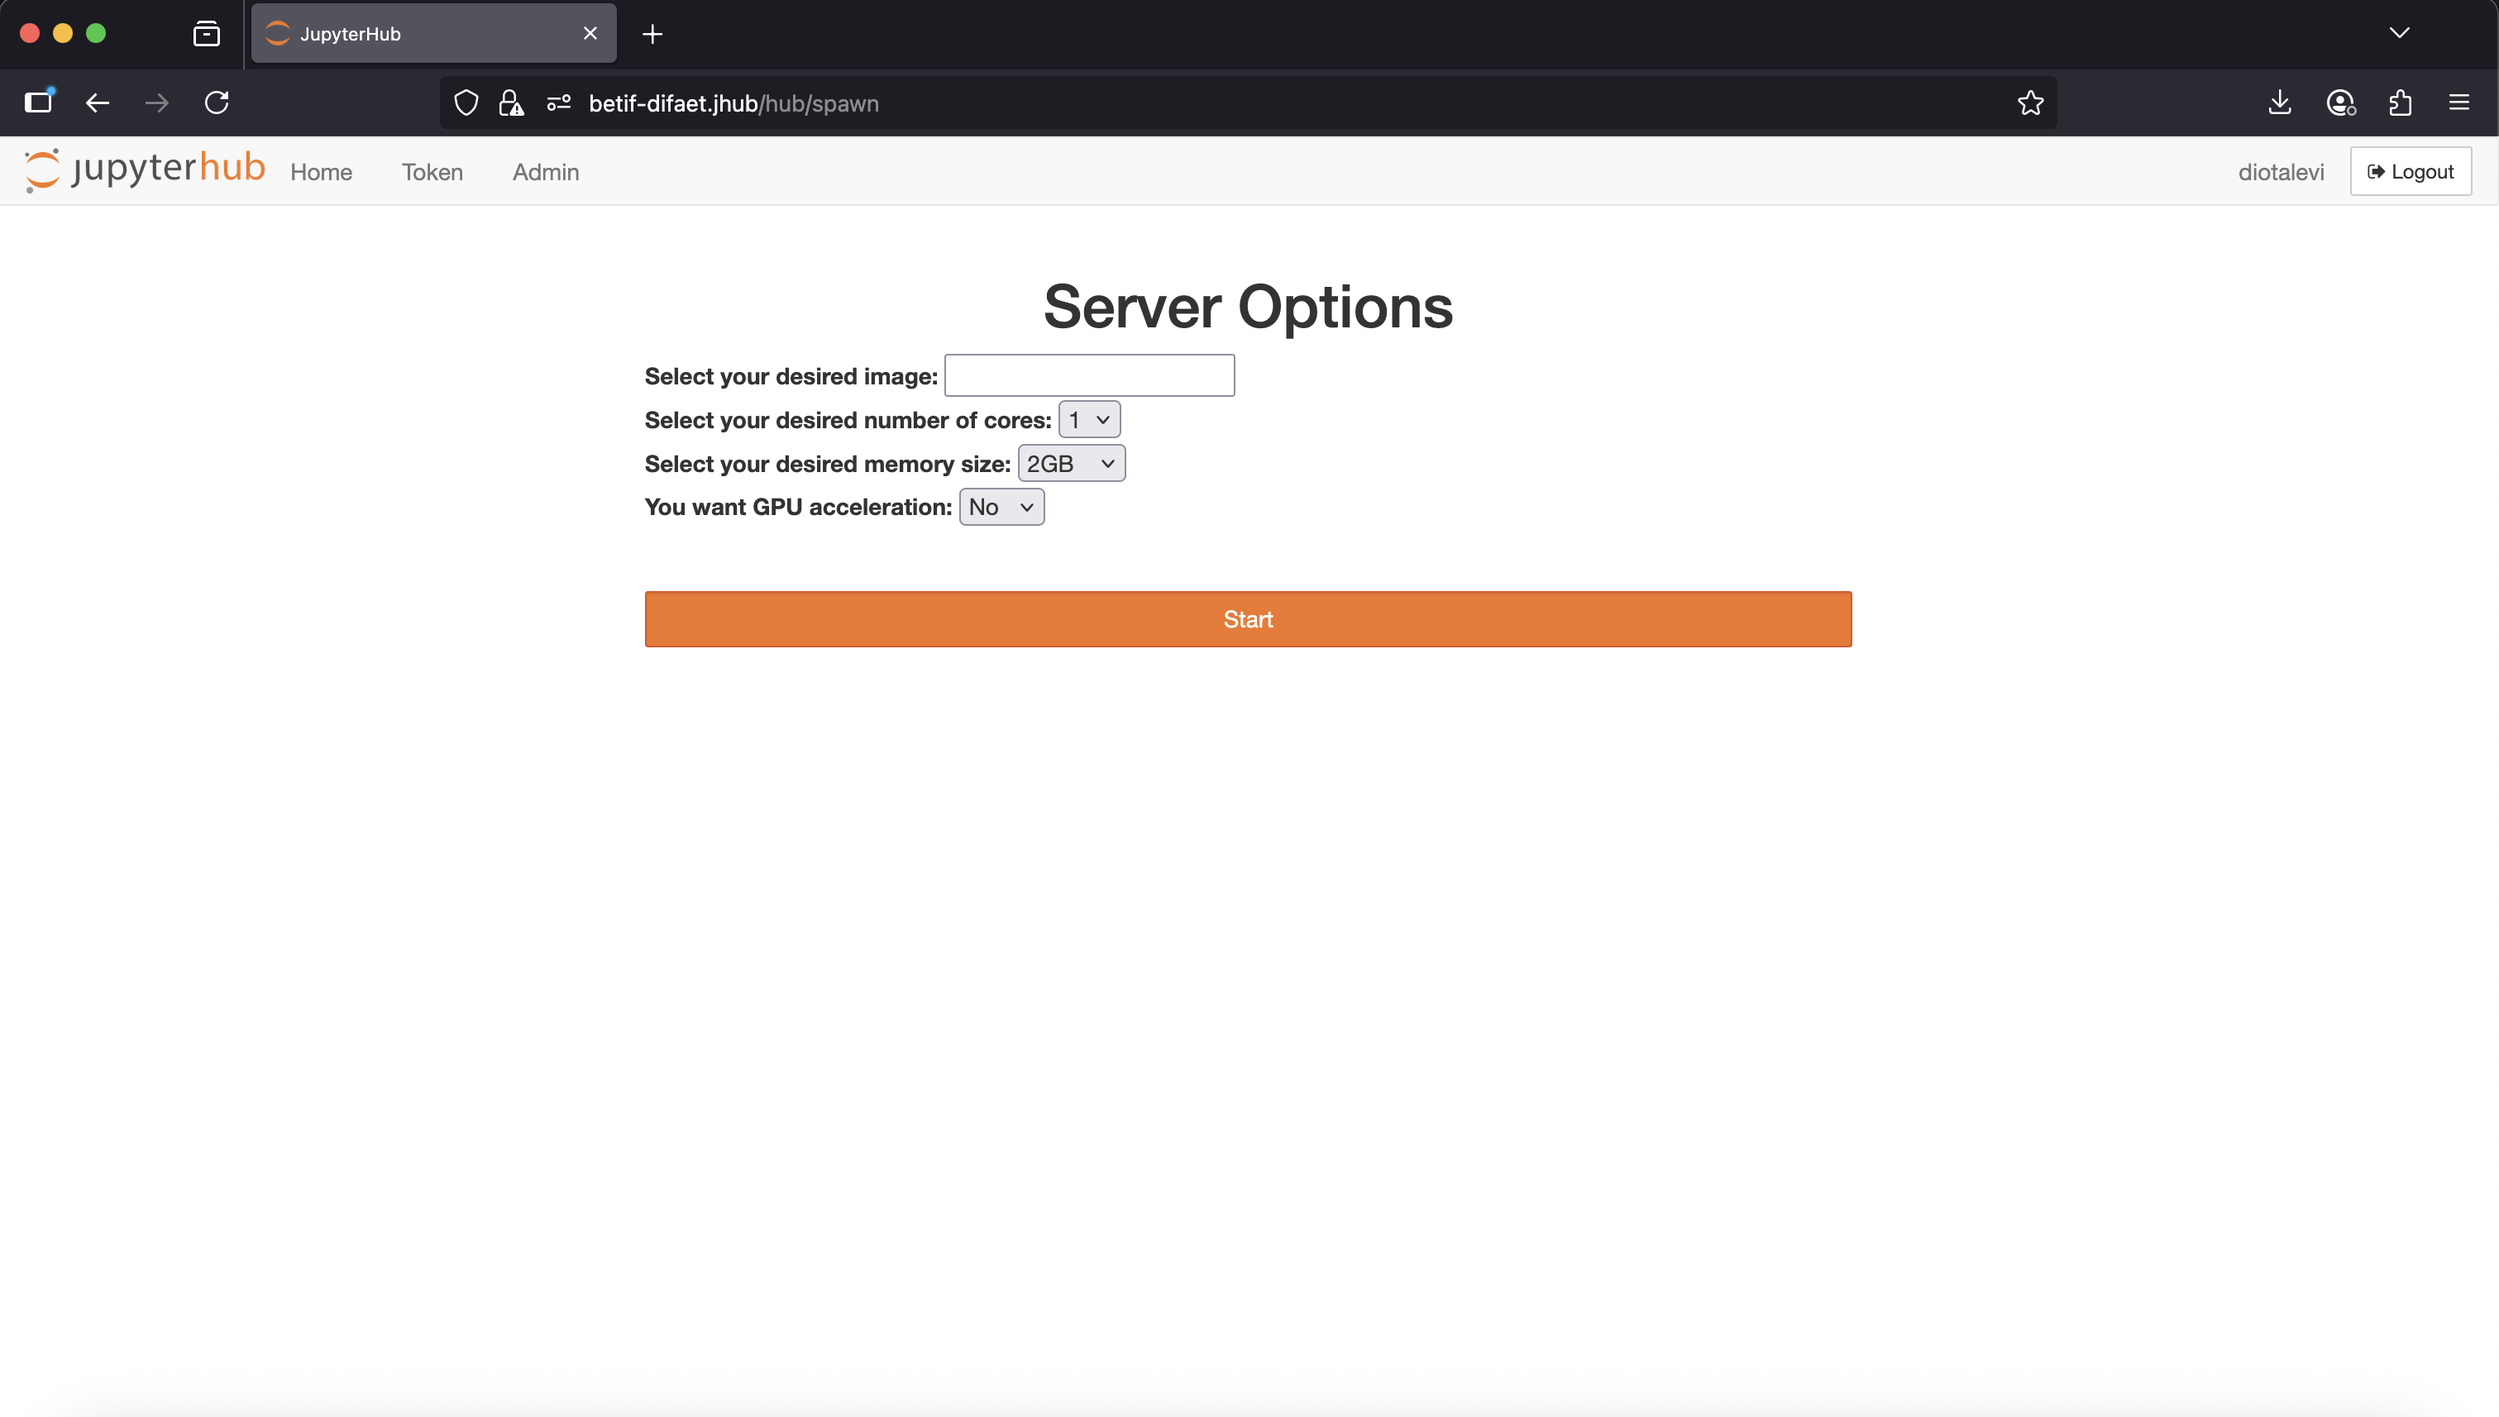
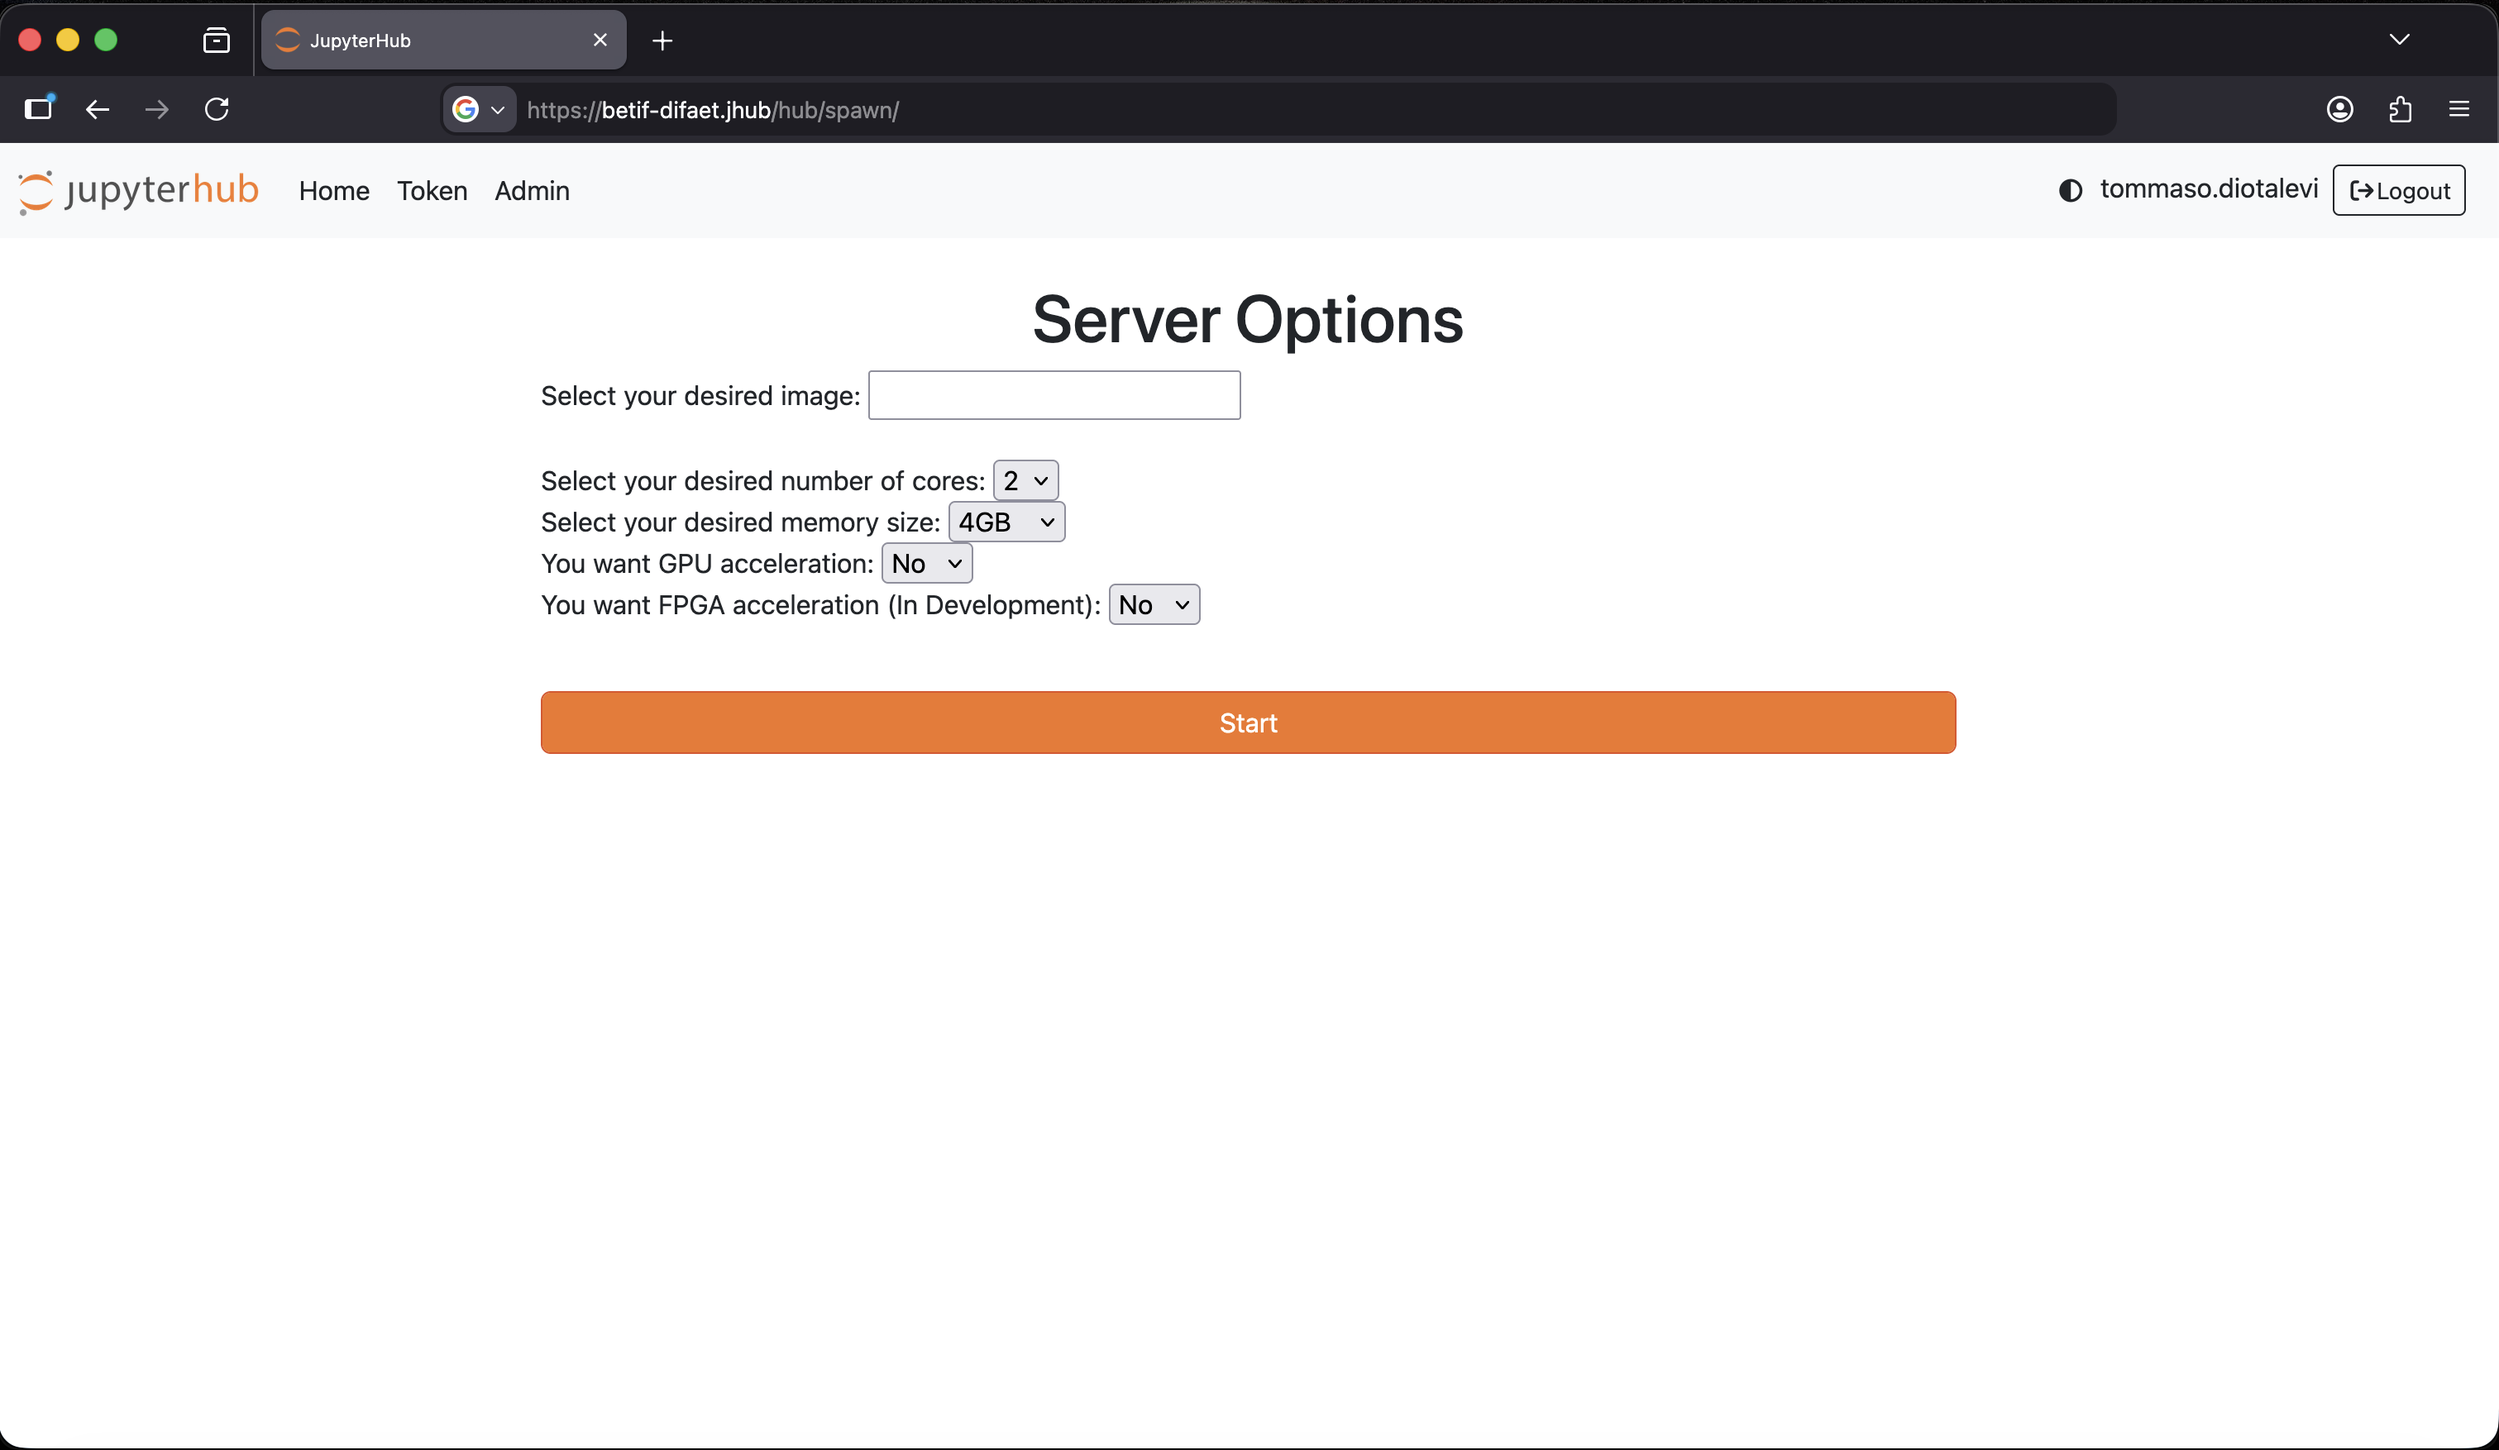
Update docs with new jlab interface

diff --git a/docs/source/user_guide.rst b/docs/source/user_guide.rst
@@ -58,16 +58,19 @@ The default base images visible on the ``Server Options`` page are:
 +--------------------------------------+---------------------------------------------------------------+-------------------------------------------------------+
 |              Image name              |                          Image path                           |                   Packages installed                  |
 +======================================+===============================================================+=======================================================+
-|    Almalinux9 CPU-only base image    |      `ghcr.io/betif-difaet/jlab:betif-alma9-cpu-v0.3.0`_      |                Python 3.11, VOMS client               |
+|    Almalinux9 CPU-only base image    |      `ghcr.io/betif-difaet/jlab:betif-alma9-cpu-v1.0.5`_      |                Python 3.11, VOMS client               |
 +--------------------------------------+---------------------------------------------------------------+-------------------------------------------------------+
-|      Almalinux9 ROOT base image      | `ghcr.io/betif-difaet/jlab:betif-alma9-cpu-with-root-v0.3.0`_ |          Python 3.11, VOMS client, ROOT 6.34          |
+|      Almalinux9 ROOT base image      | `ghcr.io/betif-difaet/jlab:betif-alma9-cpu-with-root-v1.0.5`_ |          Python 3.11, VOMS client, ROOT 6.34          |
 +--------------------------------------+---------------------------------------------------------------+-------------------------------------------------------+
-|  Almalinux9 CPU-with-GPU base image  |      `ghcr.io/betif-difaet/jlab:betif-alma9-gpu-v0.3.0`_      | Python 3.11, VOMS client, NVIDIA drivers, CUDA 12.4   |
+|  Almalinux9 CPU-with-GPU base image  |      `ghcr.io/betif-difaet/jlab:betif-alma9-gpu-v1.0.5`_      | Python 3.11, VOMS client, NVIDIA drivers, CUDA 12.4   |
++--------------------------------------+---------------------------------------------------------------+-------------------------------------------------------+
+|      Almalinux9 FPGA base image      |     `ghcr.io/betif-difaet/jlab:betif-alma9-fpga-v1.0.3`_      |         Python 3.11, VOMS client, FPGA drivers        |
 +--------------------------------------+---------------------------------------------------------------+-------------------------------------------------------+
 
-.. _ghcr.io/betif-difaet/jlab:betif-alma9-cpu-v0.2.1: https://github.com/betif-difaet/custom_images/pkgs/container/jlab/506490177?tag=betif-alma9-cpu-v0.2.1
-.. _ghcr.io/betif-difaet/jlab:betif-alma9-gpu-v0.2.1: https://github.com/betif-difaet/custom_images/pkgs/container/jlab/506497746?tag=betif-alma9-gpu-v0.2.1
-.. _ghcr.io/betif-difaet/jlab:betif-alma9-cpu-with-root-v0.2.1: https://github.com/betif-difaet/custom_images/pkgs/container/jlab/506490178?tag=betif-alma9-cpu-with-root-v0.2.1
+.. _ghcr.io/betif-difaet/jlab:betif-alma9-cpu-v1.0.5: https://github.com/BETIF-DIFAET/custom_images/pkgs/container/jlab/1133089955?tag=betif-alma9-cpu-v1.0.5
+.. _ghcr.io/betif-difaet/jlab:betif-alma9-gpu-v1.0.5: https://github.com/BETIF-DIFAET/custom_images/pkgs/container/jlab/1133174633?tag=betif-alma9-gpu-v1.0.5
+.. _ghcr.io/betif-difaet/jlab:betif-alma9-cpu-with-root-v1.0.5: https://github.com/BETIF-DIFAET/custom_images/pkgs/container/jlab/1133132286?tag=betif-alma9-cpu-with-root-v1.0.5
+.. _ghcr.io/betif-difaet/jlab:betif-alma9-fpga-v1.0.3: https://github.com/BETIF-DIFAET/custom_images/pkgs/container/jlab/1036093468?tag=betif-alma9-fpga-v1.0.3
 
 .. WARNING::
 
@@ -77,6 +80,11 @@ The default base images visible on the ``Server Options`` page are:
 
    On the other hand, if **you need GPU capabilities**, make sure to select **Yes** in the JupyterHub spawn form, as shown in :numref:`jlab-spawn`, and select the CPU-with-GPU image. 
    Otherwise, the GPU resources will not be allocated to your notebook server and/or the NVIDIA drivers will not be available.
+
+.. DANGER::
+
+   The FPGA image is still **under development** and it is not yet fully functional. It is provided for testing purposes only. 
+   For the moment, it only comprises the FPGA drivers for the AMD Alveo U55C card.
 
 
 Choose your Jupyter kernel
@@ -110,10 +118,13 @@ The available kernels shown in the home page are:
 +---------------------------------+------------------+------------------------------------------------------------------------------------+
 |  `Singularity kernel - WDF`_    |     3.11.14      |                 Kernel singularity: WDF and PyTSA (from A. Ghinassi)               |
 +---------------------------------+------------------+------------------------------------------------------------------------------------+
+|  `Singularity kernel - IGWN`_   |     3.11.14      |                  Kernel singularity: IGWN tools (from A. Ghinassi)                 |
++---------------------------------+------------------+------------------------------------------------------------------------------------+
 
-.. _`Singularity kernel - Default`: ghcr.io/betif-difaet/kernel-default:v1.2.0
-.. _`Singularity kernel - ROOT`: ghcr.io/betif-difaet/kernel-root:v1.2.0
-.. _`Singularity kernel - WDF`: ghcr.io/betif-difaet/kernel-wdf:v1.2.0
+.. _`Singularity kernel - Default`: https://github.com/BETIF-DIFAET/custom_kernels/pkgs/container/kernel-default
+.. _`Singularity kernel - ROOT`: https://github.com/BETIF-DIFAET/custom_kernels/pkgs/container/kernel-root
+.. _`Singularity kernel - WDF`: https://github.com/BETIF-DIFAET/custom_kernels/pkgs/container/kernel-wdf
+.. _`Singularity kernel - IGWN`: https://github.com/BETIF-DIFAET/custom_kernels/pkgs/container/kernel-igwn
 
 The `Python 3` local kernel is lightweight and does not include any additional packages (to avoid overloading the JupyterLab environment).
 
